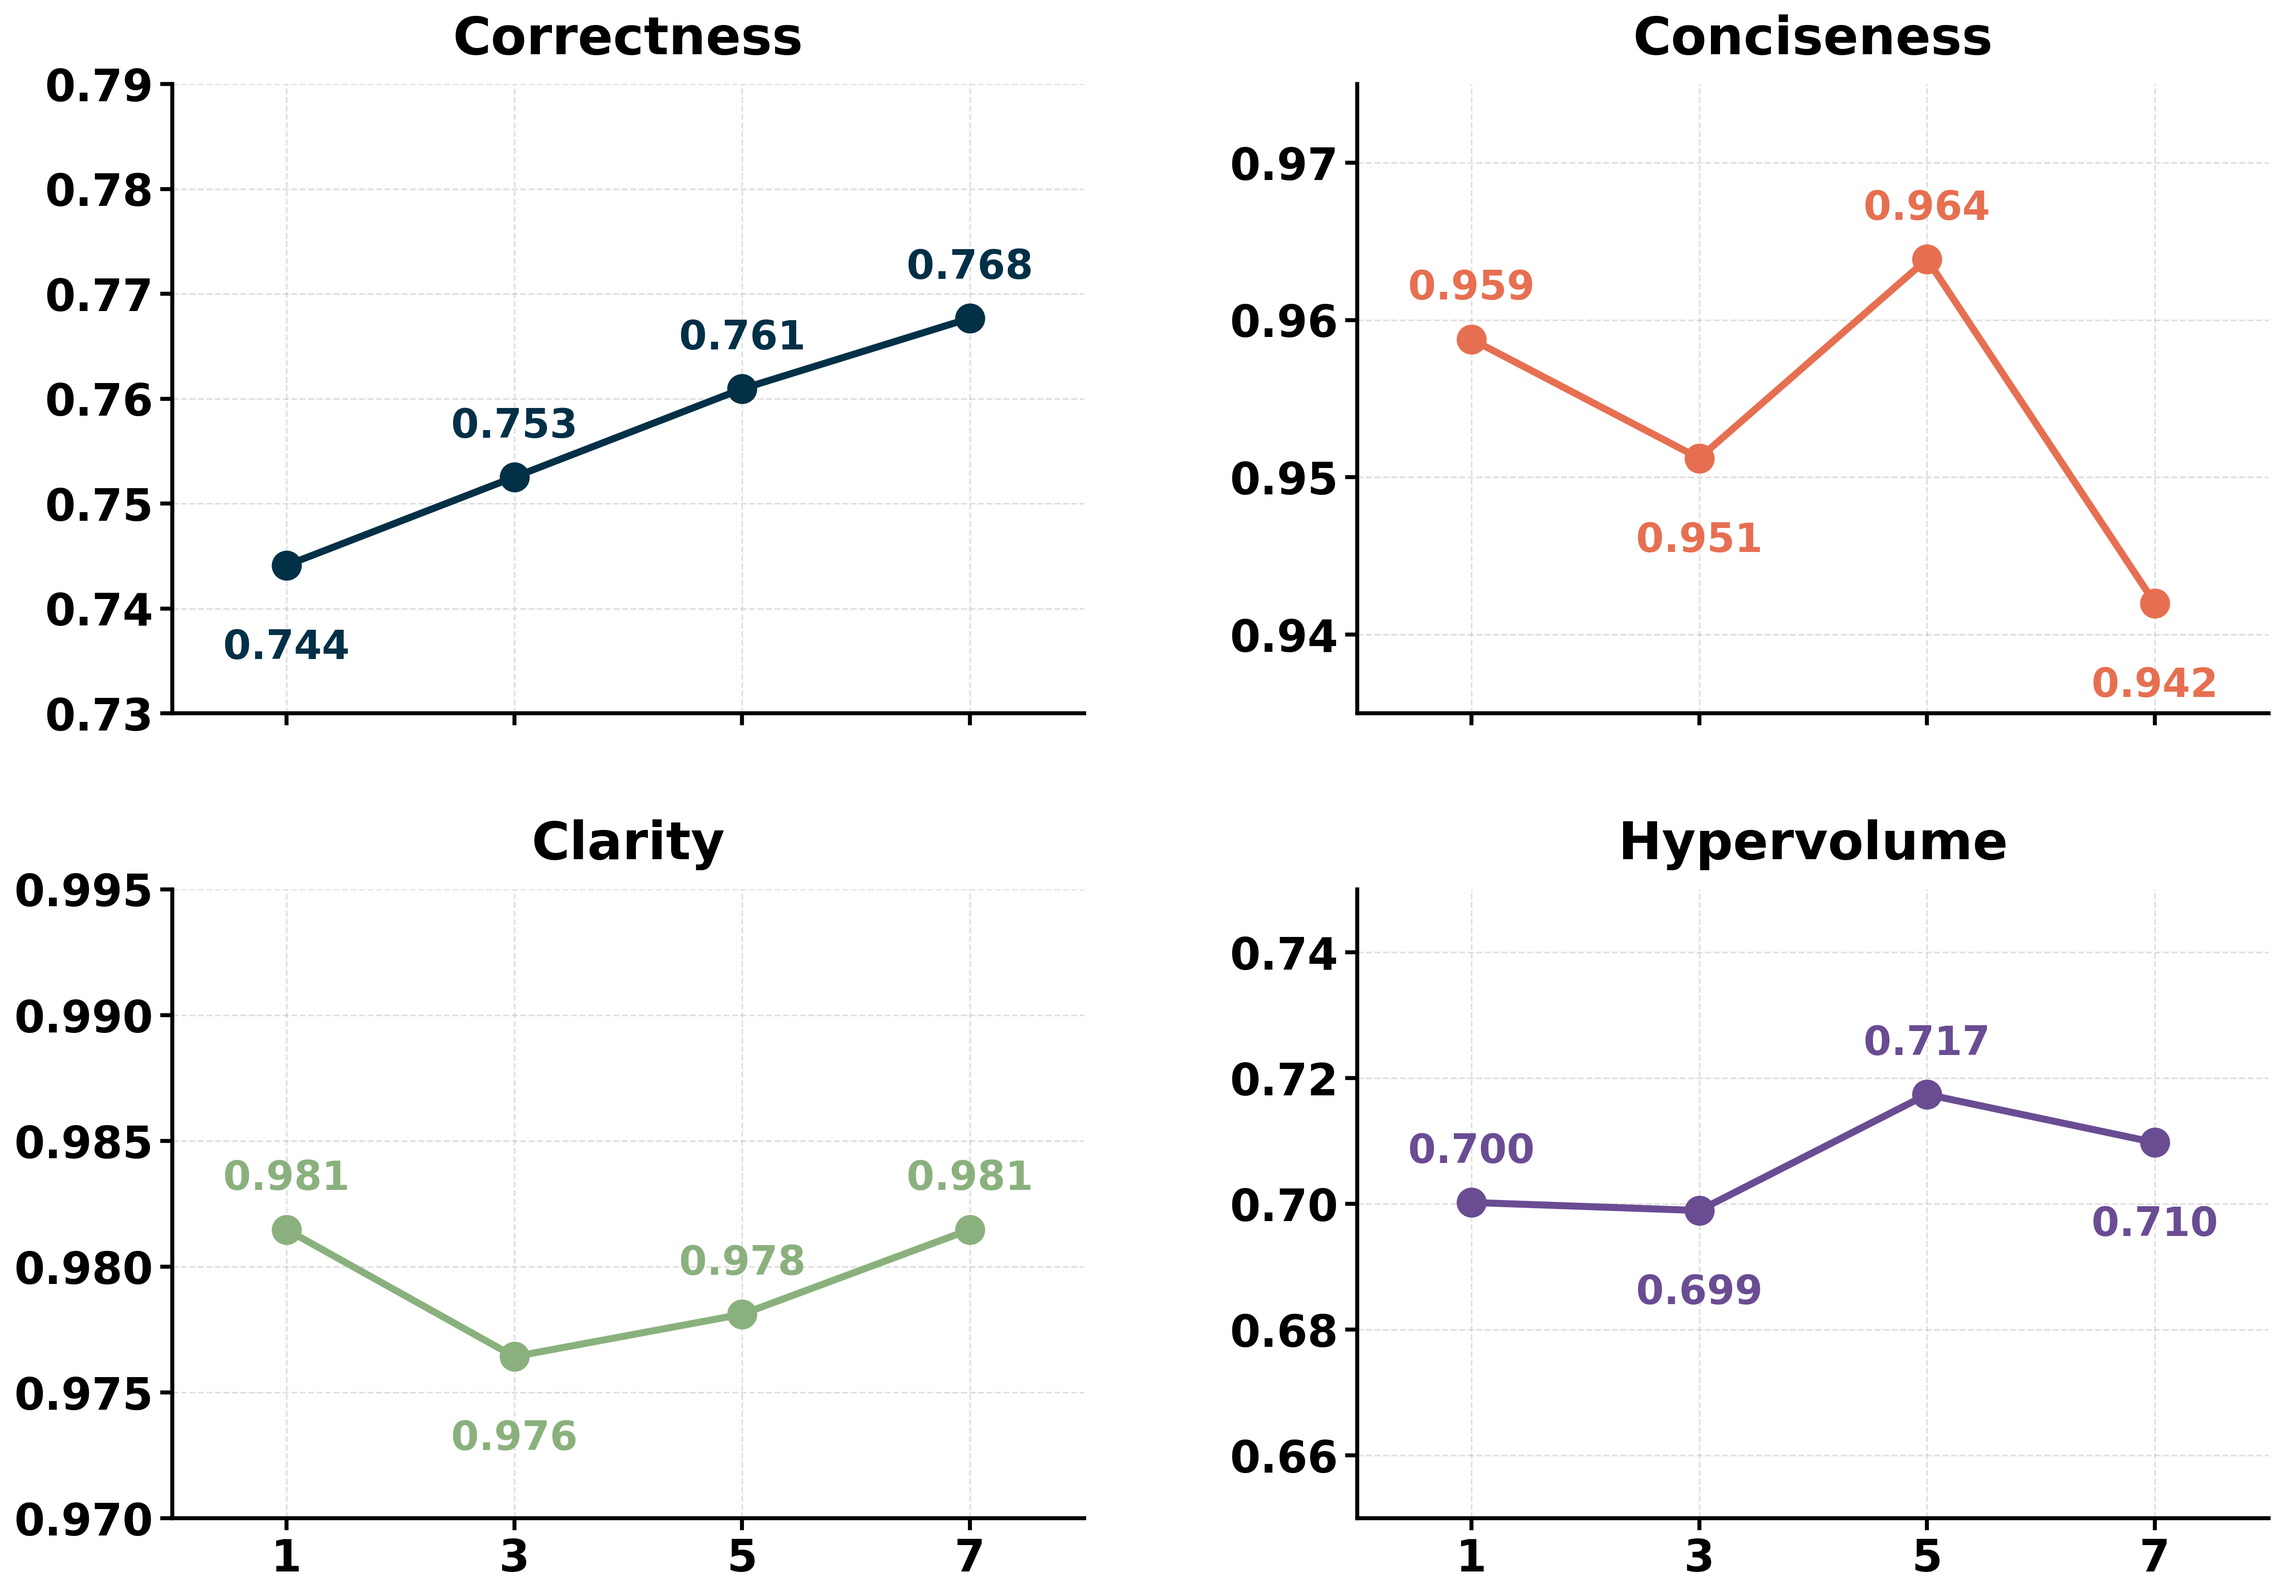
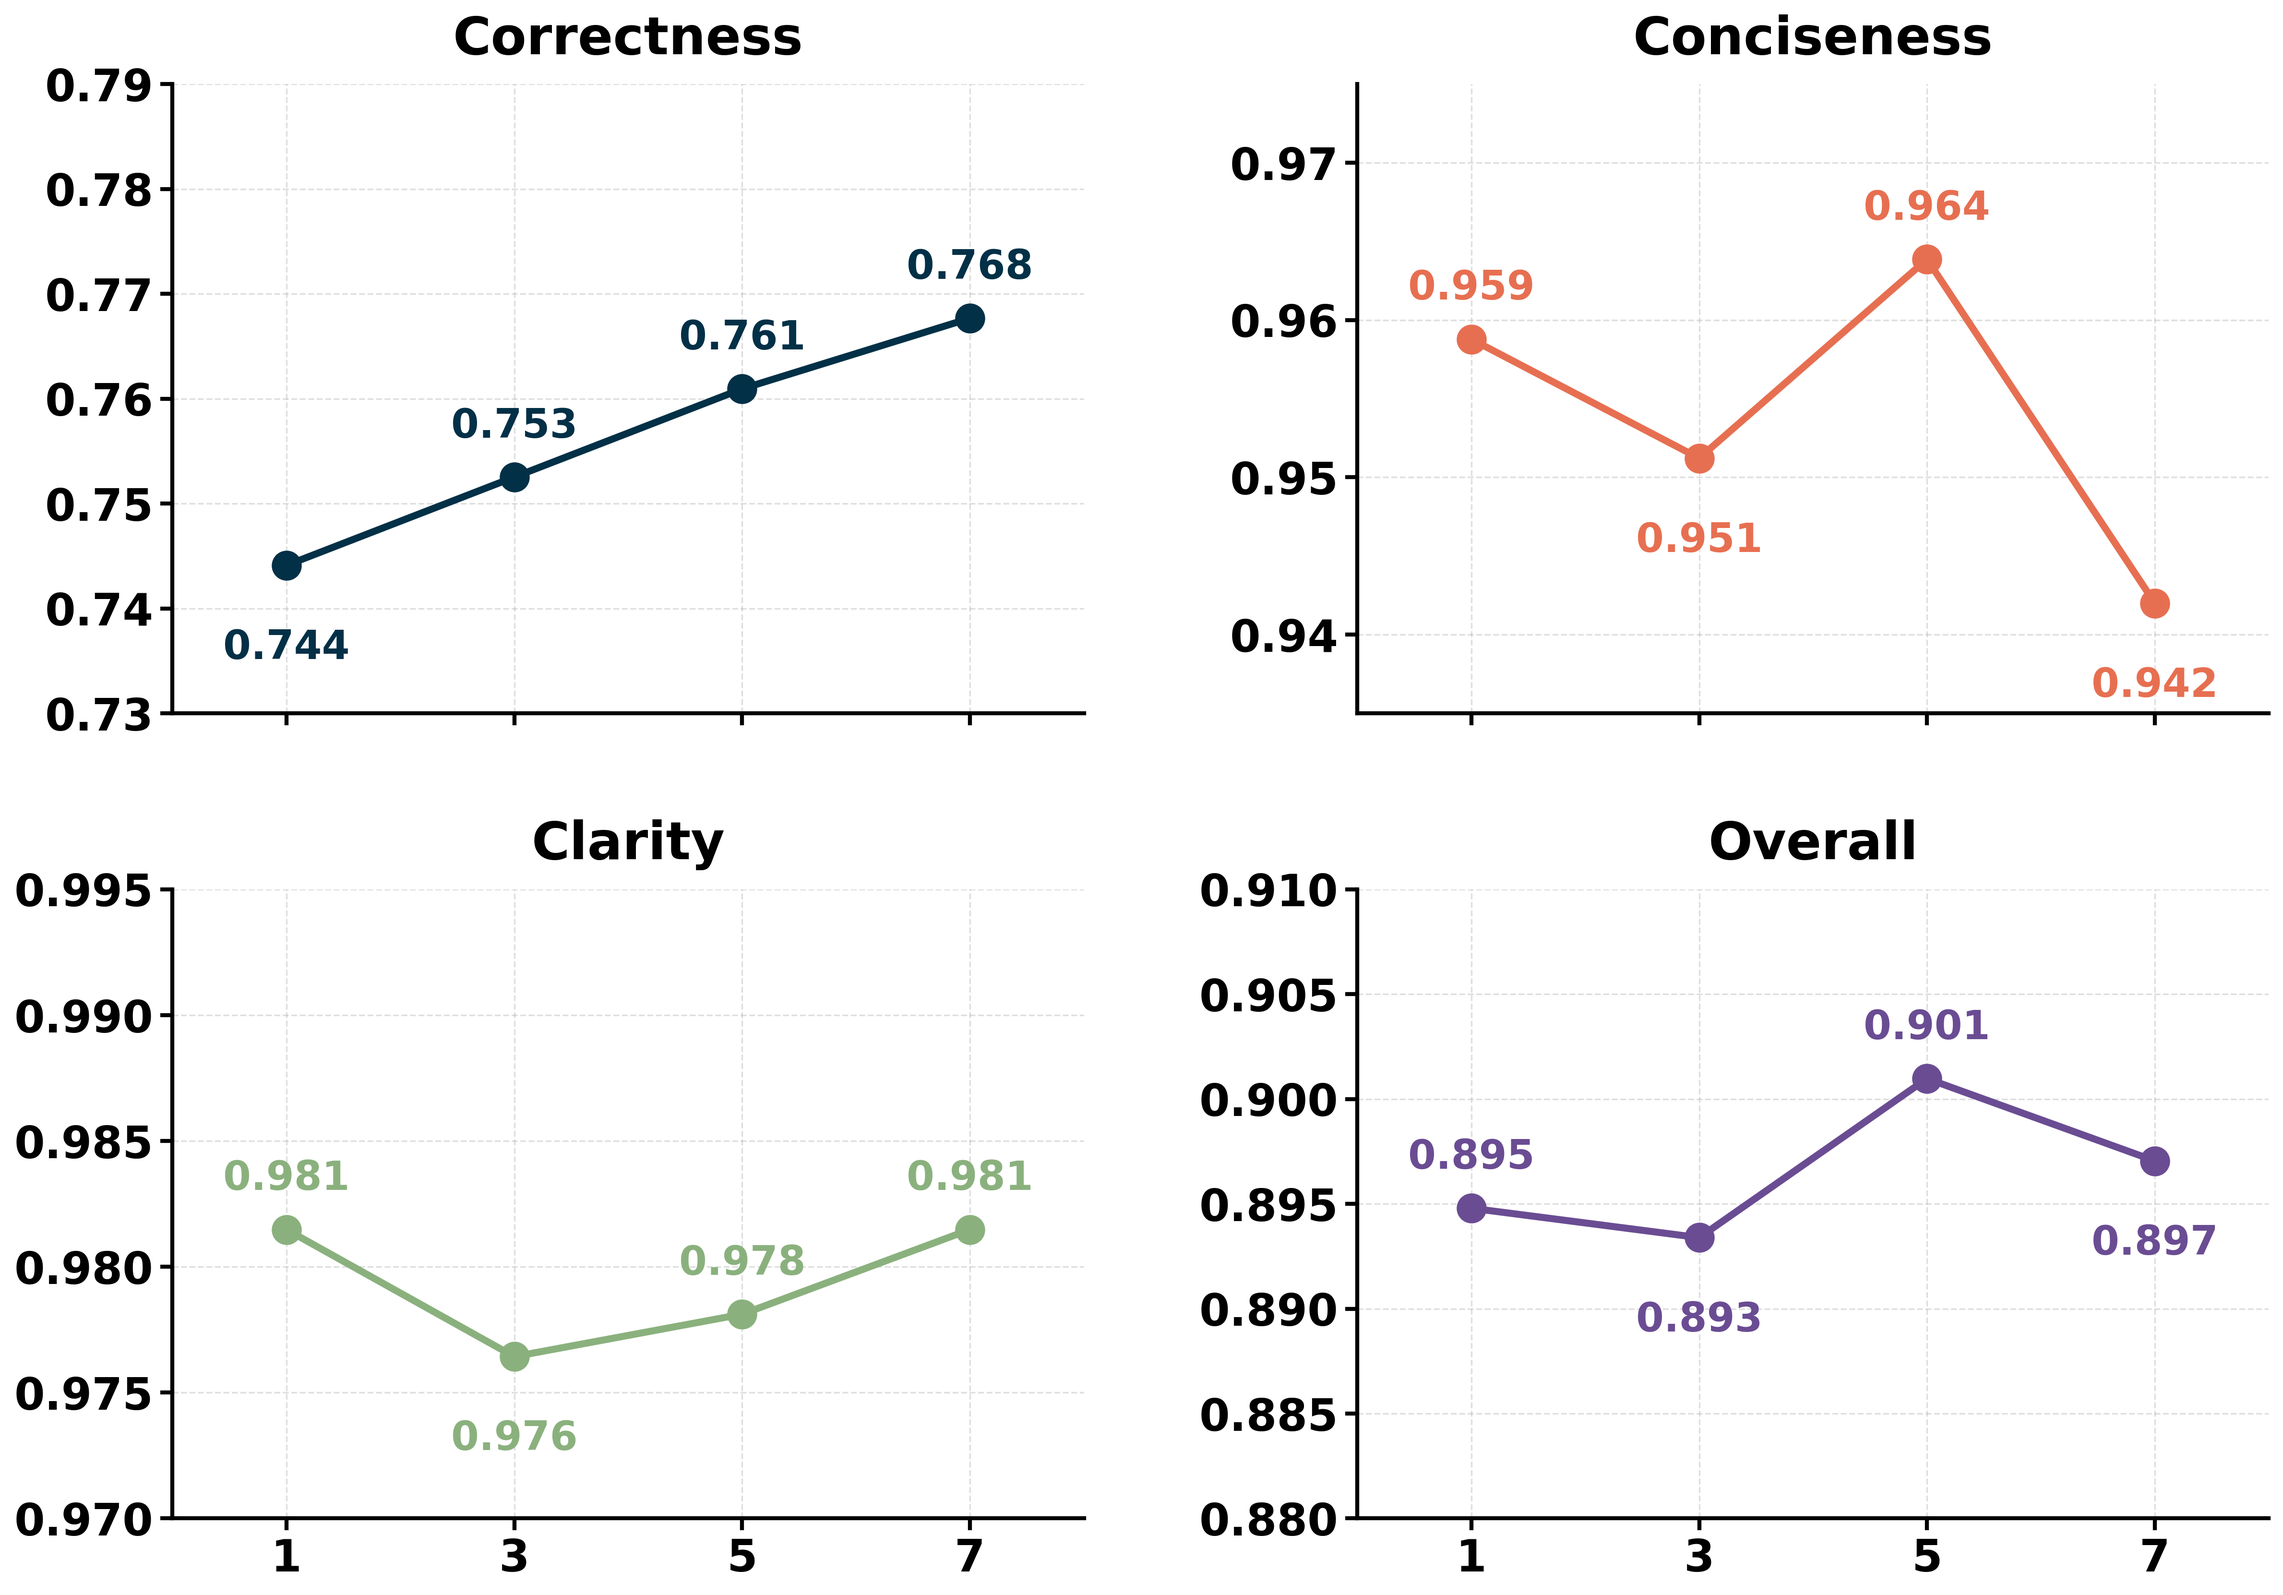
upload 3*3

diff --git a/playground/visualization/lag_analysis_v3.py b/playground/visualization/lag_analysis_v3.py
@@ -32,8 +32,8 @@ for file in files:
 accuracy     = np.array(accuracy)
 conciseness  = np.array(conciseness)
 format_score = np.array(format_score)
-# overall = (accuracy + conciseness + format_score) / 3
-overall = (accuracy * conciseness * format_score) 
+overall = (accuracy + conciseness + format_score) / 3
+# overall = (accuracy * conciseness * format_score) 
 print("overall", overall)
 # ======================
 # 指标配置
@@ -42,8 +42,8 @@ metrics = [
     ("Correctness", accuracy,     (0.73, 0.79), "#023047"),
     ("Conciseness", conciseness, (0.935, 0.975), "#E76F51"),
     ("Clarity", format_score,   (0.97, 0.995), "#8AB17D"),
-    # ("Overall", overall,       (0.88, 0.91), "#6A4C93"), # 新增 Overall 图表
-    ("Hypervolume", overall,       (0.65, 0.75), "#6A4C93"), # 新增 Overall 图表
+    ("Overall", overall,       (0.88, 0.91), "#6A4C93"), # 新增 Overall 图表
+    # ("Overall", overall,       (0.65, 0.75), "#6A4C93"), # 新增 Overall 图表
 ]
 
 # ======================

diff --git a/playground/visualization/plot_pareto_grid_3_3.py b/playground/visualization/plot_pareto_grid_3_3.py
@@ -251,13 +251,14 @@ if __name__ == "__main__":
         "qwen2.5-3b_grpo", "qwen2.5-3b_gdpo", "qwen2.5-3b_hvpo",
         "llama3.2-3b_grpo", "llama3.2-3b_gdpo", "llama3.2-3b_hvpo",
     ]
+    output_name = "pareto_grid_3x3.pdf"
 
     paths = [f"playground/visualization/scores/{exp}.jsonl" for exp in experiments]
     print(paths)
 
     plot_pareto_grid_3x3_from_files(
         jsonl_paths=paths,
-        output_path="playground/visualization/pareto_grid_3x3.png",  # 或 "pareto_grid_3x3.pdf"
+        output_path=f"playground/visualization/{output_name}.png",  # 或 "pareto_grid_3x3.pdf"
         ref_point=(0, 0),                      # 或手动指定 (rx, ry)
         # ref_point=None,                      # 或手动指定 (rx, ry)
         share_axes=True,
